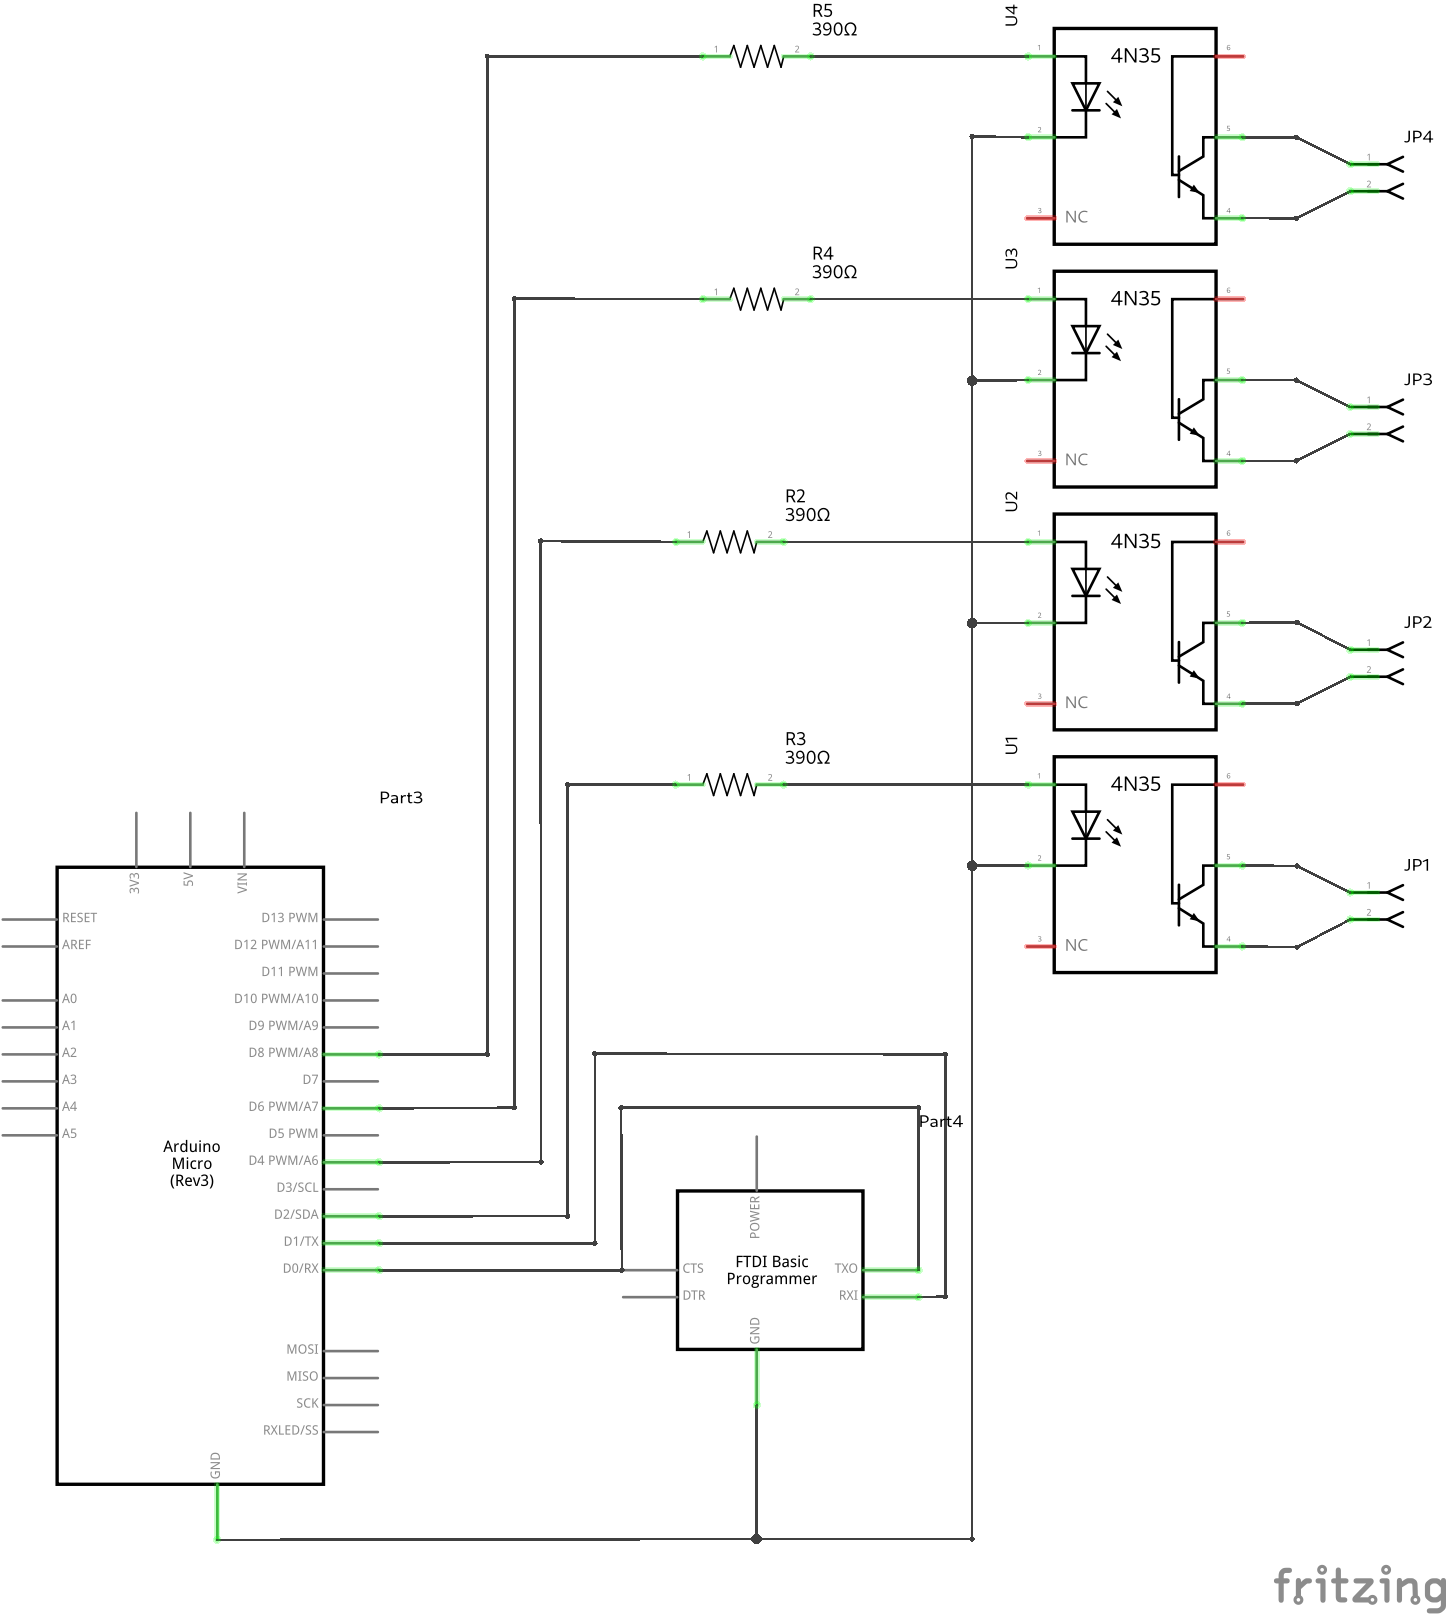
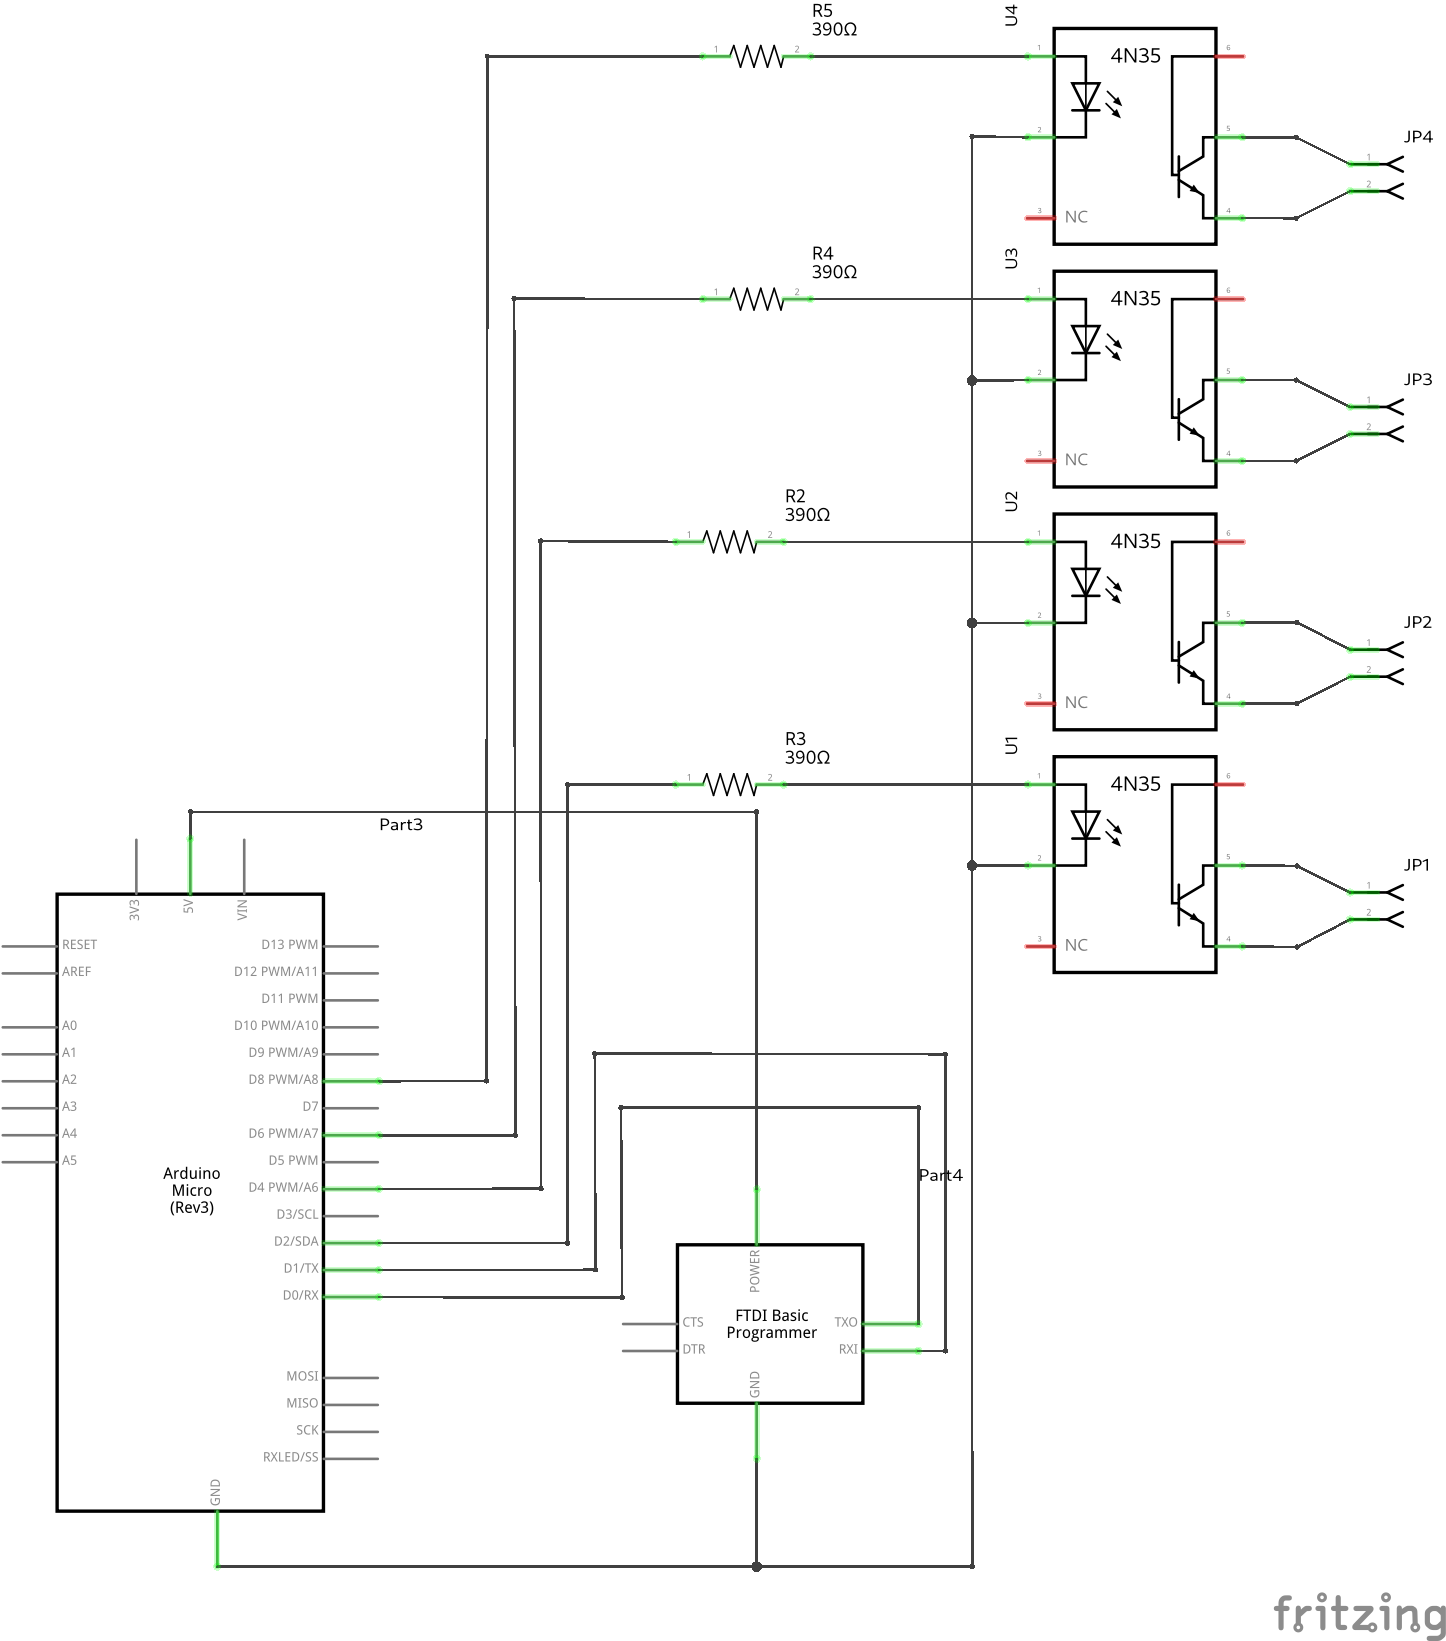
Added photos, some clarifications, added Vcc - Line and explanation

diff --git a/README.md b/README.md
@@ -1,4 +1,4 @@
-# RubberJogi
+# 	RubberJogi
 
 ## What is the idea / the usecase ?
 
@@ -66,14 +66,79 @@ If you are using a linux-box you could use the follwing command to achieve this:
 
 ## Special Hardware with 2 switches
 
-* we also need to control two switches
+* In our/my usecase we also need to control two switches
+
 * one of these is connected to the reset-button of the PC
+
 * the other one is connected to the switch of a USB-sharing station, so we can switch a USB-stick between PC1 and PC2 ...
-* more explanations will follow (including code)
+
+* more explanations will follow, the code is already able to make use of these 
+
 * here at least are the schematics
+
+* In case you want (like we do) to switch on PC2 with a command from PC1 you need to connect Vcc between FTDI and Arduino, otherwise the Arduino will not have power when he is connected to a switched of PC ... ( see the green cable below)
+
+
 
   ![RubberJogi_with_switch_bb](pics/RubberJogi_with_switch_bb.png)
 
+
+
   ![RubberJogi_with_switch_schem](pics/RubberJogi_with_switch_schem.png)
+
+
+## Extended Special Hardware with 4 switches
+
+  - in the meantime we even have use-cases where we need to control up to 4 switches
+
+  - as before one of these is connected to the reset-button of the PC (in our case)
+
+  - as before one is connected to the switch of a USB-sharing station, so we can switch a USB-stick between PC1 and PC2 ... (in our case)
+
+  - the other 2 switches are needed to control boot-sel switches of embedded ARM systems  
+
+  - here are the additional schematics
+
+  - In case you want (like we do) to switch on PC2 with a command from PC1 you need to connect Vcc between FTDI and Arduino, otherwise the Arduino will not have power when he is connected to a switched of PC ... ( see the green cable below)
+
+    ![RubberJogi_with_switch_bb](pics/RubberJogi_with_4_switches_bb.png)
+
+    ![RubberJogi_with_switch_schem](pics/RubberJogi_with_4_switches_schem.png)
+
+## Reality
+
+This is one sample-prototype without any switches, just the "plain" RubberJogi. This was soldered "flying" and is only stabilized with heat shrink tube.
+
+![RubberJogi_with_4_switches_sample](pics/RubberJogi_Aufbau_NoSwitch.jpg)
+
+
+
+This is one sample-prototype, with 4 switches, soldered on a veroboard/breadboard
+
+
+![RubberJogi_with_4_switches_sample](pics/RubberJogi_Aufbau.jpg)
+
+## Parts-List
+
+What do you need to build a RubberJogi?
+
+
+
+
+| Part                                                  | Rubber<br> Jogi<br> Standard | Rubber <br> Jogi<br>Two Switch | Rubber <br> Jogi<br>Four Switch |
+| ----------------------------------------------------- | ---------------------------- | ------------------------------ | ------------------------------- |
+| Arduino Micro                                         | 1                            | 1                              | 1                               |
+| FTDI USB / Serial Converter 5V capable                | 1                            | 1                              | 1                               |
+| Cables between Arduino/FTDI<br>(Vcc, GND, RxD, TxD)   | 4                            | 4                              | 4                               |
+| USB-Cable to Arduino <br />(USB-A to Micro-USB)       | 1                            | 1                              | 1                               |
+| USB-Cable to FTDI<br>(USB-A to Mini-USB)              | 1                            | 1                              | 1                               |
+| Veroboard                                             | ?                            | ca 60x50 mm                    | ca 60x50mm                      |
+| Header Arduino<br>(when not using already w/ headers) | ?                            | 34                             | 34                              |
+| Header FTDI                                           | ?                            | 18                             | 18                              |
+| Optocoupler 4N25 DIL                                  | 0                            | 2                              | 4                               |
+| Resistor 390 Ohm                                      | 0                            | 2                              | 4                               |
+| Connectors, depends on your needs, e.g                | 0                            | 2                              | 4                               |
+| **Example**: Headers for switches                     | 0                            | 4                              | 8                               |
+
 
 
